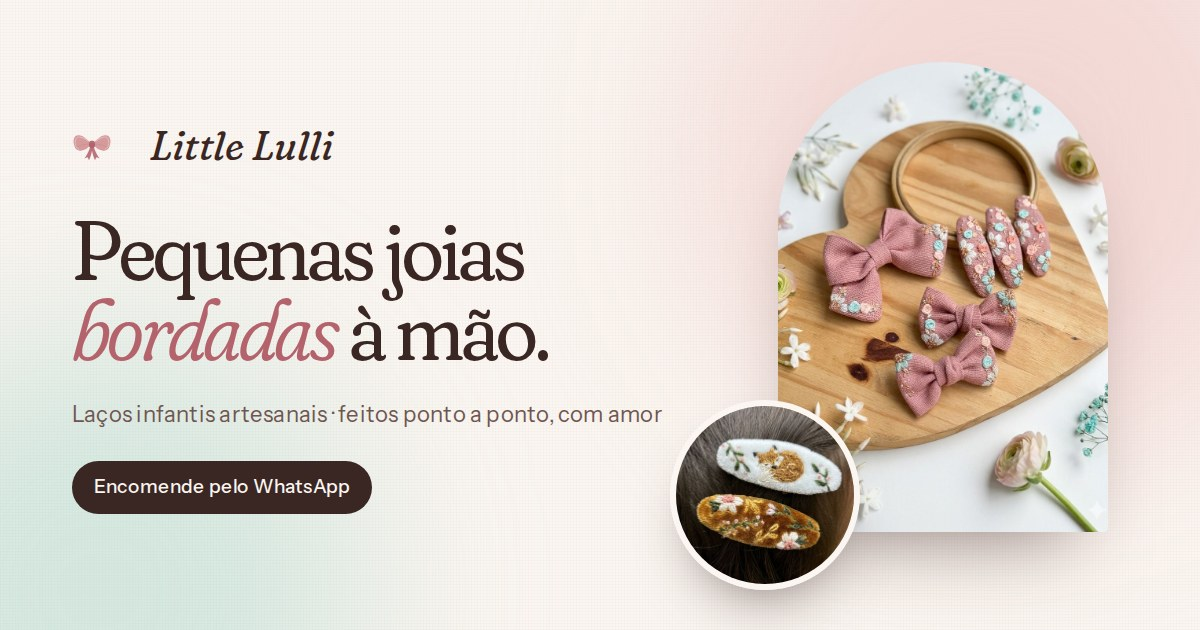
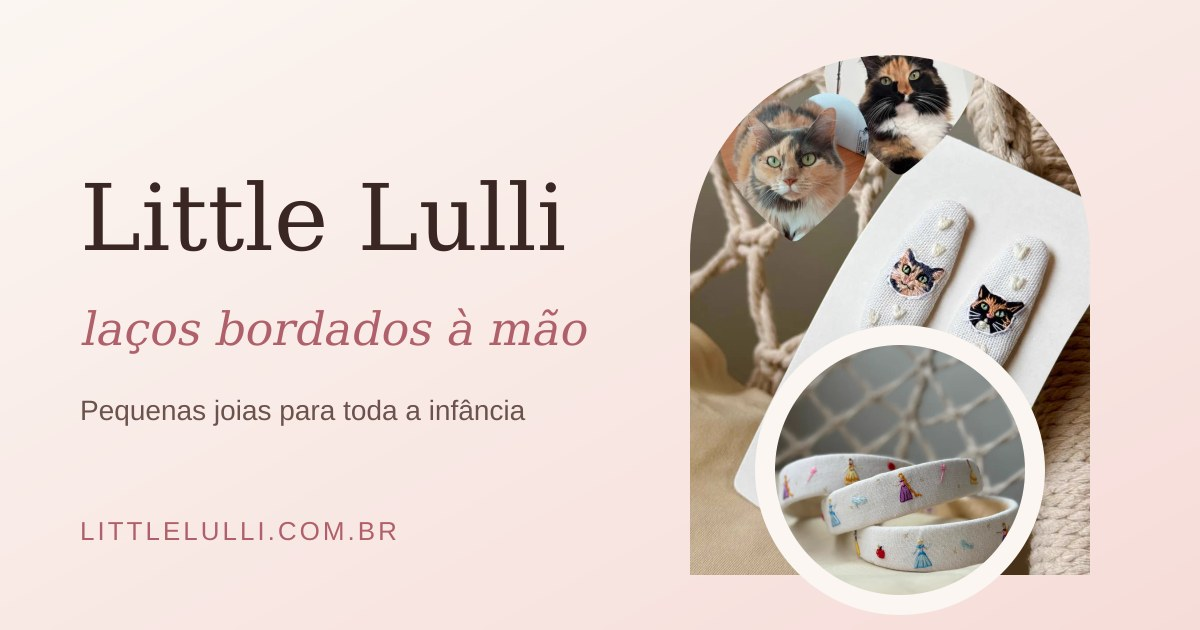
Novo catálogo com fotos reais, Ateliê e colagem do hero atualizados
- Catálogo com 13 coleções usando as novas fotos (webp otimizado)
- Ateliê (Do fio ao laço) com 4 fotos novas
- Hero: gatinhas, tiaras e bichinhos
- Imagem de compartilhamento (OG) refeita; JSON-LD aponta para foto nova

Claude-Session: https://claude.ai/code/session_012KBZgyRAJdYDc4bpJYu7CS

diff --git a/components/sections/hero.tsx b/components/sections/hero.tsx
@@ -208,11 +208,11 @@ export function Hero() {
                 >
                   <motion.div className="absolute inset-0" style={{ scale: imageScale }}>
                   <Image
-                    src="/colecao-1.jpeg"
-                    alt="Laços e presilhas rosa bordados à mão com flores, sobre uma tábua de madeira em formato de coração"
+                    src="/catalogo/gatinhas.webp"
+                    alt="Cartela Little Lulli com duas presilhas brancas bordadas com rostinhos de gatinhas, e fotos das gatas em formato de coração"
                     fill
                     sizes="(min-width: 1024px) 34vw, 70vw"
-                    className="object-cover"
+                    className="object-cover object-[50%_55%]"
                     loading="eager"
                     fetchPriority="high"
                   />
@@ -231,11 +231,11 @@ export function Hero() {
               >
                 <div className="relative aspect-square overflow-hidden rounded-full border-[6px] border-linen shadow-[0_30px_60px_-30px_rgba(58,38,34,0.6)]">
                   <Image
-                    src="/colecao-3.jpeg"
-                    alt="Presilhas bordadas com raposinha e flores no cabelo de uma menina"
+                    src="/catalogo/tiaras-bordadas.webp"
+                    alt="Três tiaras de tecido claro bordadas à mão com princesinhas, estrelas e uma maçã"
                     fill
                     sizes="(min-width: 1024px) 18vw, 38vw"
-                    className="scale-125 object-cover object-[50%_40%]"
+                    className="object-cover object-[50%_78%]"
                     loading="eager"
                   />
                 </div>
@@ -259,11 +259,11 @@ export function Hero() {
                   <div className="mx-auto mb-2 size-3 rounded-full border border-cocoa/20 bg-linen" />
                   <div className="relative aspect-[4/5] overflow-hidden rounded-[1rem]">
                     <Image
-                      src="/colecao-2.jpeg"
-                      alt="Par de presilhas terracota bordadas com margaridas, em cartela com recorte de coração"
+                      src="/catalogo/bichinhos.webp"
+                      alt="Cartela Little Lulli com duas presilhas azul-céu bordadas com um bichinho, arco-íris, nuvens, sol e porquinhos"
                       fill
                       sizes="(min-width: 1024px) 15vw, 33vw"
-                      className="object-cover object-[50%_45%]"
+                      className="object-cover object-[50%_50%]"
                     />
                   </div>
                   <p className="font-script mt-1 text-center text-[clamp(1.1rem,2.2vw,1.7rem)] leading-none text-rose-deep">

diff --git a/app/layout.tsx b/app/layout.tsx
@@ -68,7 +68,7 @@ const jsonLd = {
   name: "Little Lulli",
   description,
   url: SITE_URL,
-  image: `${SITE_URL}/colecao-1.jpeg`,
+  image: `${SITE_URL}/catalogo/veludo.webp`,
   telephone: `+${WHATSAPP_NUMBER}`,
   sameAs: [INSTAGRAM_URL],
 };
